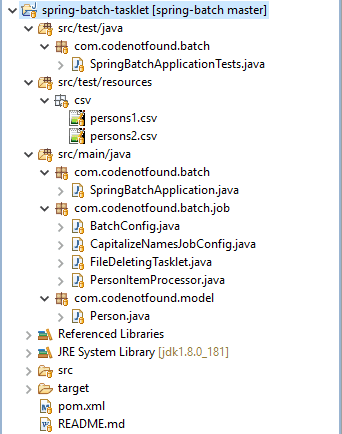
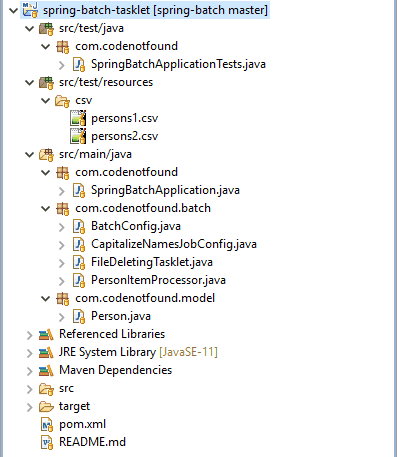
update post

Changed region(s): [[0.0, 0.0, 0.7895, 1.0]]

diff --git a/_posts/spring-batch/2018-10-21-spring-batch-tasklet-example.md b/_posts/spring-batch/2018-10-21-spring-batch-tasklet-example.md
@@ -1,9 +1,9 @@
 ---
 title: "Spring Batch Tasklet Example"
 permalink: /spring-batch-tasklet-example.html
-excerpt: "A detailed step-by-step tutorial on how to implement a Spring Batch Tasklet using Spring Boot and Maven."
+excerpt: "A detailed step-by-step tutorial on how to implement a Spring Batch Tasklet using Spring Boot."
 date: 2018-10-21
-last_modified_at: 2018-11-08
+last_modified_at: 2019-05-30
 header:
   teaser: "assets/images/spring-batch/spring-batch-tasklet.png"
 categories: [Spring Batch]
@@ -28,7 +28,7 @@ If you want to learn more about Spring Batch - head on over to the [Spring Batch
 
 ## 1. What is a Spring Batch Tasklet?
 
-In Spring batch, a `Tasklet` is an interface that performs a single task within a `Step`. A typical use case for implementing a `Tasklet` is the setup up or cleaning of resources before or after the execution of a `Step`.
+In Spring Batch, a `Tasklet` is an interface that performs a single task within a `Step`. A typical use case for implementing a `Tasklet` is the setup up or cleaning of resources before or after the execution of a `Step`.
 
 In fact, Spring Batch offers two different ways for **implementing a step of a batch job**: using [Chunks](https://docs.spring.io/spring-batch/4.1.x/reference/html/step.html#chunkOrientedProcessing){:target="_blank"} or using a [Tasklet](https://docs.spring.io/spring-batch/4.1.x/reference/html/step.html#taskletStep){:target="_blank"}.
 
@@ -56,9 +56,9 @@ We then change the batch job so that it reads multiple CSV files. When the `Job`
 ## 2. General Project Overview
 
 We will use the following tools/frameworks:
-* _Spring Batch 4.1_
-* _Spring Boot 2.1_
-* _Maven 3.5_
+* Spring Batch 4.1
+* Spring Boot 2.1
+* Maven 3.6
 
 Our Maven project has the following structure:
 
@@ -77,7 +77,7 @@ When all files are deleted we return the <var>FINISHED</var> status so that the 
 We also add a constructor that sets the directory that needs to be cleaned.
 
 {% highlight java %}
-package com.codenotfound.batch.job;
+package com.codenotfound.batch;
 
 import java.io.File;
 import java.io.IOException;
@@ -132,7 +132,7 @@ We also add a `multiItemReader` Bean that reads multiple input files.
 We finish by creating the `fileDeletingTasklet` Bean on which we specify the directory that needs to be cleaned.
 
 {% highlight java %}
-package com.codenotfound.batch.job;
+package com.codenotfound.batch;
 
 import java.io.IOException;
 import org.slf4j.Logger;
@@ -239,7 +239,7 @@ First, we copy the input files to the location from which our batch job will rea
 We then launch the batch job and check if it finishes successfully. We also check if all input files have been deleted.
 
 {% highlight java %}
-package com.codenotfound.batch;
+package com.codenotfound;
 
 import static org.assertj.core.api.Assertions.assertThat;
 import java.io.File;
@@ -330,33 +330,33 @@ mvn test
 Maven will download the needed dependencies, compile the code and run the unit test case. The result should be a successful build as shown below:
 
 {% highlight plaintext %}
-.   ____          _            __ _ _
+ .   ____          _            __ _ _
 /\\ / ___'_ __ _ _(_)_ __  __ _ \ \ \ \
 ( ( )\___ | '_ | '_| | '_ \/ _` | \ \ \ \
 \\/  ___)| |_)| | | | | || (_| |  ) ) ) )
 '  |____| .__|_| |_|_| |_\__, | / / / /
 =========|_|==============|___/=/_/_/_/
-:: Spring Boot ::        (v2.1.0.RELEASE)
+:: Spring Boot ::        (v2.1.5.RELEASE)
 
-2018-11-06 11:22:13.598  INFO 8840 --- [           main] c.c.batch.SpringBatchApplicationTests    : Starting SpringBatchApplicationTests on DESKTOP-2RB3C1U with PID 8840 (started by Codenotfound in C:\Users\Codenotfound\repos\spring-batch\spring-batch-tasklet)
-2018-11-06 11:22:13.598  INFO 8840 --- [           main] c.c.batch.SpringBatchApplicationTests    : No active profile set, falling back to default profiles: default
-2018-11-06 11:22:14.192  INFO 8840 --- [           main] c.c.batch.SpringBatchApplicationTests    : Started SpringBatchApplicationTests in 0.875 seconds (JVM running for 1.955)
-2018-11-06 11:22:14.379  WARN 8840 --- [           main] o.s.b.c.c.a.DefaultBatchConfigurer       : No datasource was provided...using a Map based JobRepository
-2018-11-06 11:22:14.379  WARN 8840 --- [           main] o.s.b.c.c.a.DefaultBatchConfigurer       : No transaction manager was provided, using a ResourcelessTransactionManager
-2018-11-06 11:22:14.410  INFO 8840 --- [           main] o.s.b.c.l.support.SimpleJobLauncher      : No TaskExecutor has been set, defaulting to synchronous executor.
-2018-11-06 11:22:14.515  INFO 8840 --- [           main] o.s.b.c.l.support.SimpleJobLauncher      : Job: [SimpleJob: [name=capitalizeNamesJob]] launched with the following parameters: [{random=591022}]
-2018-11-06 11:22:14.546  INFO 8840 --- [           main] o.s.batch.core.job.SimpleStepHandler     : Executing step: [capitalizeNamesStep]
-2018-11-06 11:22:14.640  INFO 8840 --- [           main] c.c.batch.job.PersonItemProcessor        : converting 'Jessica Doe' into 'JESSICA DOE'
-2018-11-06 11:22:14.640  INFO 8840 --- [           main] c.c.batch.job.PersonItemProcessor        : converting 'Julia Doe' into 'JULIA DOE'
-2018-11-06 11:22:14.640  INFO 8840 --- [           main] c.c.batch.job.PersonItemProcessor        : converting 'Jasmin Doe' into 'JASMIN DOE'
-2018-11-06 11:22:14.640  INFO 8840 --- [           main] c.c.batch.job.PersonItemProcessor        : converting 'Jennifer Doe' into 'JENNIFER DOE'
-2018-11-06 11:22:14.640  INFO 8840 --- [           main] c.c.batch.job.PersonItemProcessor        : converting 'Jack Doe' into 'JACK DOE'
-2018-11-06 11:22:14.640  INFO 8840 --- [           main] c.c.batch.job.PersonItemProcessor        : converting 'Jake Doe' into 'JAKE DOE'
-2018-11-06 11:22:14.640  INFO 8840 --- [           main] c.c.batch.job.PersonItemProcessor        : converting 'Josh Doe' into 'JOSH DOE'
-2018-11-06 11:22:14.655  INFO 8840 --- [           main] c.c.batch.job.PersonItemProcessor        : converting 'Joe Doe' into 'JOE DOE'
-2018-11-06 11:22:14.702  INFO 8840 --- [           main] o.s.batch.core.job.SimpleStepHandler     : Executing step: [deleteFilesStep]
-2018-11-06 11:22:14.749  INFO 8840 --- [           main] o.s.b.c.l.support.SimpleJobLauncher      : Job: [SimpleJob: [name=capitalizeNamesJob]] completed with the following parameters: [{random=591022}] and the following status: [COMPLETED]
-[INFO] Tests run: 1, Failures: 0, Errors: 0, Skipped: 0, Time elapsed: 2.236 s - in com.codenotfound.batch.SpringBatchApplicationTests
+2019-05-30 21:20:22.937  INFO 8312 --- [           main] c.c.SpringBatchApplicationTests          : Starting SpringBatchApplicationTests on DESKTOP-2RB3C1U with PID 8312 (started by Codenotfound in C:\Users\Codenotfound\repos\spring-batch\spring-batch-tasklet)
+2019-05-30 21:20:22.939  INFO 8312 --- [           main] c.c.SpringBatchApplicationTests          : No active profile set, falling back to default profiles: default
+2019-05-30 21:20:23.473  WARN 8312 --- [           main] o.s.b.c.c.a.DefaultBatchConfigurer       : No datasource was provided...using a Map based JobRepository
+2019-05-30 21:20:23.473  WARN 8312 --- [           main] o.s.b.c.c.a.DefaultBatchConfigurer       : No transaction manager was provided, using a ResourcelessTransactionManager
+2019-05-30 21:20:23.496  INFO 8312 --- [           main] o.s.b.c.l.support.SimpleJobLauncher      : No TaskExecutor has been set, defaulting to synchronous executor.
+2019-05-30 21:20:23.520  INFO 8312 --- [           main] c.c.SpringBatchApplicationTests          : Started SpringBatchApplicationTests in 0.91 seconds (JVM running for 1.753)
+2019-05-30 21:20:23.903  INFO 8312 --- [           main] o.s.b.c.l.support.SimpleJobLauncher      : Job: [SimpleJob: [name=capitalizeNamesJob]] launched with the following parameters: [{random=838477}]
+2019-05-30 21:20:23.927  INFO 8312 --- [           main] o.s.batch.core.job.SimpleStepHandler     : Executing step: [capitalizeNamesStep]
+2019-05-30 21:20:23.975  INFO 8312 --- [           main] c.c.batch.PersonItemProcessor            : converting 'Jessica Doe' into 'JESSICA DOE'
+2019-05-30 21:20:23.983  INFO 8312 --- [           main] c.c.batch.PersonItemProcessor            : converting 'Julia Doe' into 'JULIA DOE'
+2019-05-30 21:20:23.983  INFO 8312 --- [           main] c.c.batch.PersonItemProcessor            : converting 'Jasmin Doe' into 'JASMIN DOE'
+2019-05-30 21:20:23.984  INFO 8312 --- [           main] c.c.batch.PersonItemProcessor            : converting 'Jennifer Doe' into 'JENNIFER DOE'
+2019-05-30 21:20:23.984  INFO 8312 --- [           main] c.c.batch.PersonItemProcessor            : converting 'Jack Doe' into 'JACK DOE'
+2019-05-30 21:20:23.984  INFO 8312 --- [           main] c.c.batch.PersonItemProcessor            : converting 'Jake Doe' into 'JAKE DOE'
+2019-05-30 21:20:23.984  INFO 8312 --- [           main] c.c.batch.PersonItemProcessor            : converting 'Josh Doe' into 'JOSH DOE'
+2019-05-30 21:20:23.984  INFO 8312 --- [           main] c.c.batch.PersonItemProcessor            : converting 'Joe Doe' into 'JOE DOE'
+2019-05-30 21:20:24.033  INFO 8312 --- [           main] o.s.batch.core.job.SimpleStepHandler     : Executing step: [deleteFilesStep]
+2019-05-30 21:20:24.053  INFO 8312 --- [           main] o.s.b.c.l.support.SimpleJobLauncher      : Job: [SimpleJob: [name=capitalizeNamesJob]] completed with the following parameters: [{random=838477}] and the following status: [COMPLETED]
+[INFO] Tests run: 1, Failures: 0, Errors: 0, Skipped: 0, Time elapsed: 1.977 s - in com.codenotfound.SpringBatchApplicationTests
 [INFO]
 [INFO] Results:
 [INFO]
@@ -365,8 +365,8 @@ Maven will download the needed dependencies, compile the code and run the unit t
 [INFO] ------------------------------------------------------------------------
 [INFO] BUILD SUCCESS
 [INFO] ------------------------------------------------------------------------
-[INFO] Total time: 5.474 s
-[INFO] Finished at: 2018-11-06T11:22:15+01:00
+[INFO] Total time:  7.278 s
+[INFO] Finished at: 2019-05-30T21:20:24+02:00
 [INFO] ------------------------------------------------------------------------
 {% endhighlight %}
 
